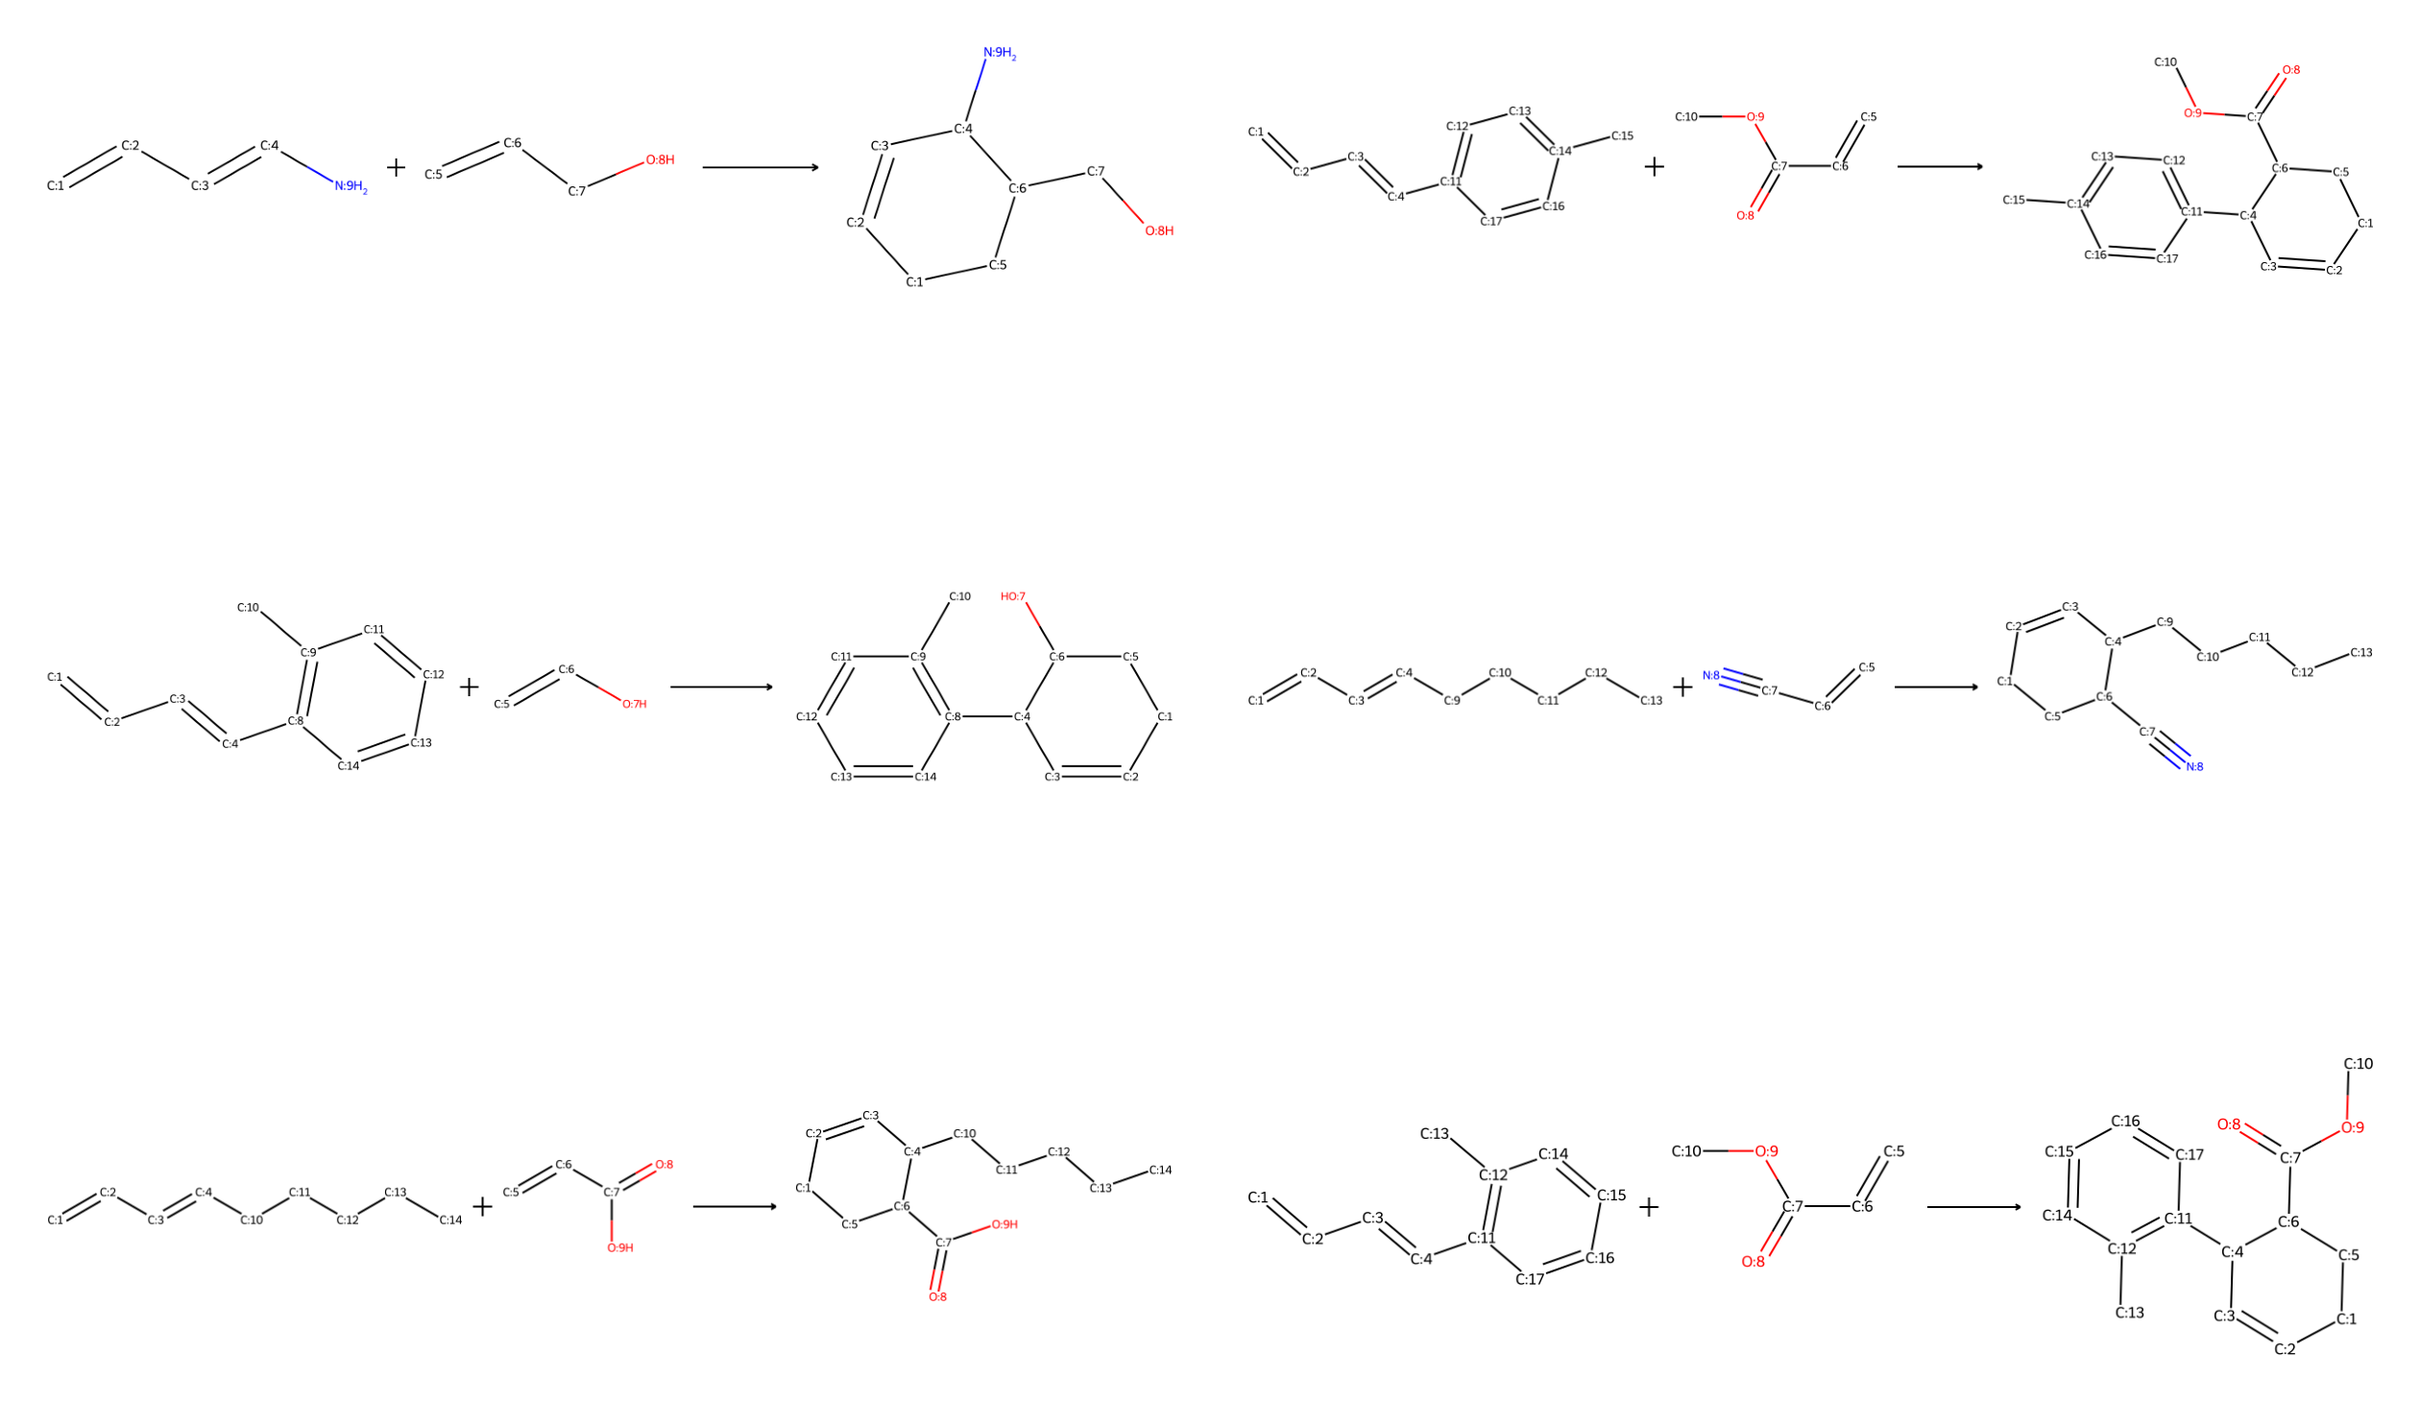
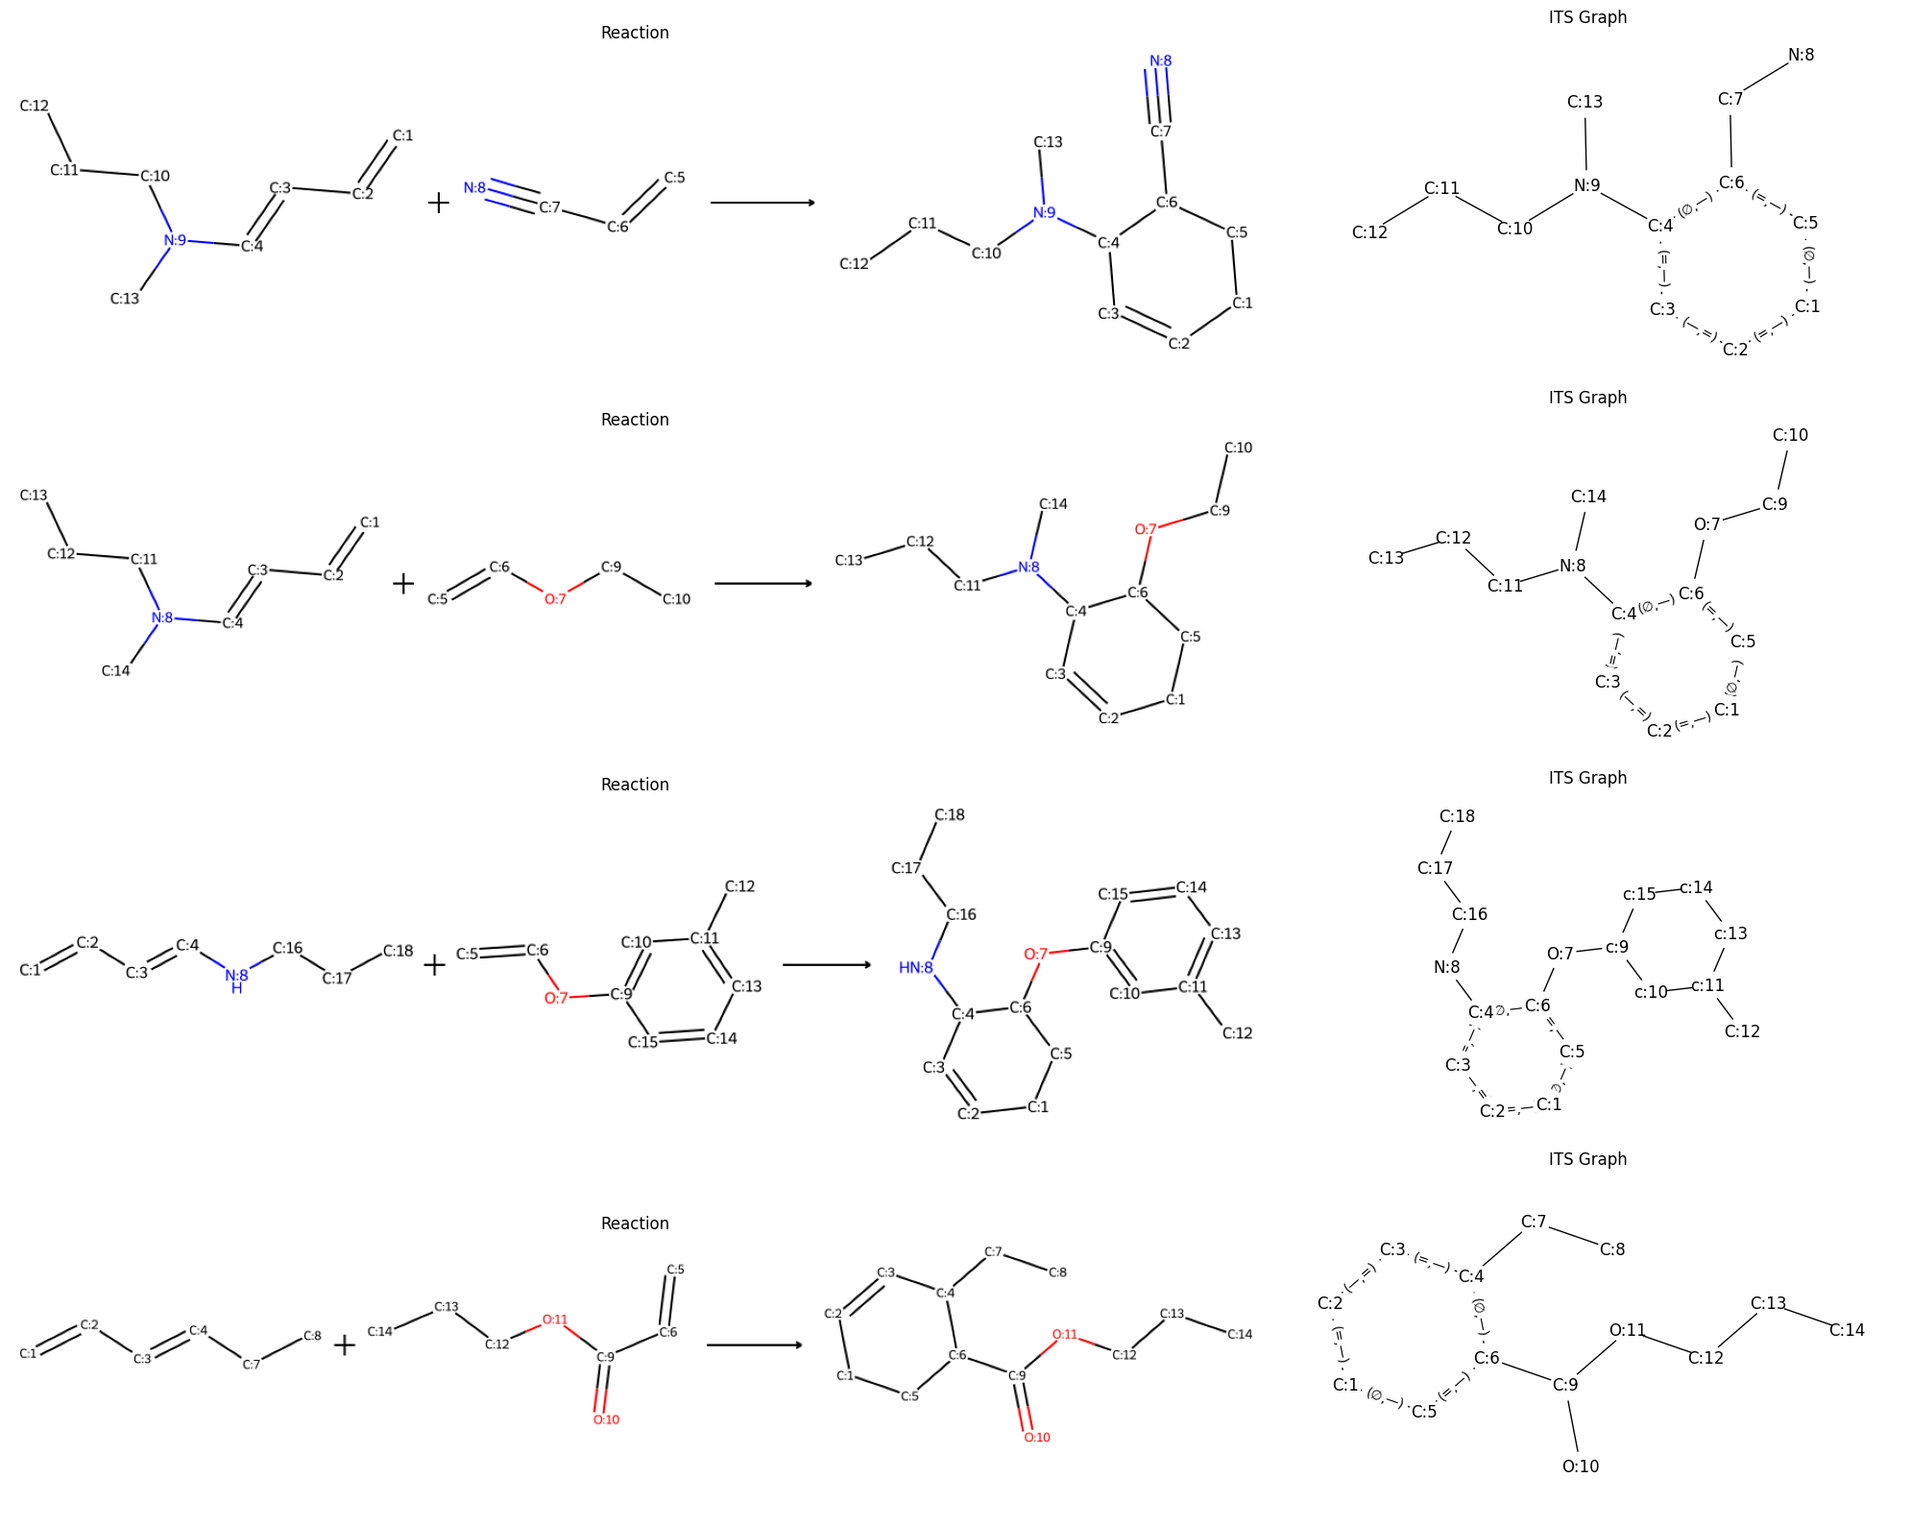
update documentation

diff --git a/fgutils/proxy.py b/fgutils/proxy.py
@@ -27,7 +27,9 @@ class GraphSampler:
         self.unique = unique
         self.__hist = []
 
-    def sample(self, graphs: list[ProxyGraph]) -> list[ProxyGraph] | None:
+    def sample(
+        self, graphs: list[ProxyGraph], group_name=None
+    ) -> list[ProxyGraph] | None:
         """
         Method to retrive a new sample from a list of graphs. If unique is set
         to true the first graph that was not yet returned is selected. None is
@@ -35,6 +37,8 @@ class GraphSampler:
         graphs are returned each time the function is called.
 
         :param graphs: A list of graphs to sample from.
+        :param group_name: (optional) The group name is an optional argument.
+            It's not necessary to specify it if it's not needed.
 
         :returns: Returns one or more graphs from the list or None if sampling
             should stop.
@@ -100,7 +104,7 @@ class ProxyGroup:
     :param sampler: (optional) An object or a function to retrive individual
         graphs from the list. The expected function interface is:
         ``func(list[ProxyGraph]) -> list[ProxyGraph]``. Implement the
-        ``__call__`` method if you use a class. The function can take an
+        ``__call__`` method if you use a class. The function can have an
         optional keyword argument **group_name**.
     :param unique: Argument to specify if graphs can be returned multiple
         times. This only takes effect if sampler is not set. (Default = False)
@@ -380,7 +384,9 @@ class Proxy:
     ):
         self.enable_aam = enable_aam
         self.core = (
-            ProxyGroup("__core__", core) if not isinstance(core, ProxyGroup) else core
+            ProxyGroup("__core__", core, unique=True)
+            if not isinstance(core, ProxyGroup)
+            else core
         )
         self.groups = groups
         if parser is None:

diff --git a/doc/figure_scripts/multiple_anchor_example.py b/doc/figure_scripts/multiple_anchor_example.py
@@ -1,29 +1,24 @@
 import matplotlib.pyplot as plt
 from fgutils.proxy import MolProxy, ProxyGroup, ProxyGraph, Parser
-from fgutils.vis import plot_graph
+from fgutils.vis import GraphVisualizer
 
-pattern = "C{g}(C)C{g}(C)(C)C"
-g_2 = ProxyGroup("g", ProxyGraph("c1ccccc1", anchor=[1, 3]))
-g_3 = ProxyGroup("g", ProxyGraph("c1ccccc1", anchor=[1, 3, 4]))
-g_4 = ProxyGroup("g", ProxyGraph("c1ccccc1", anchor=[1, 3, 4, 5]))
+pattern = "N{g}C{g}(O)C"
+g_1 = ProxyGroup("g", ProxyGraph("C1CCCCC1", anchor=[1, 3]))
+g_2 = ProxyGroup("g", ProxyGraph("C1CCCCC1", anchor=[1, 3, 4]))
 
 parser = Parser()
-proxy1 = MolProxy(pattern, g_2)
-proxy2 = MolProxy(pattern, g_3)
-proxy3 = MolProxy(pattern, g_4)
+proxy1 = MolProxy(pattern, g_1)
+proxy2 = MolProxy(pattern, g_2)
 
 parent_graph = parser(pattern)
 mol1 = next(proxy1)
 mol2 = next(proxy2)
-mol3 = next(proxy3)
 
-fig, ax = plt.subplots(2, 2, dpi=200, figsize=(16, 9))
-plot_graph(
-    parent_graph, ax[0, 0], show_labels=True, show_edge_labels=False, title="parent"
-)
-plot_graph(mol1, ax[0, 1], show_edge_labels=False, title="2 anchor nodes")
-plot_graph(mol2, ax[1, 0], show_edge_labels=False, title="3 anchor nodes")
-plot_graph(mol3, ax[1, 1], show_edge_labels=False, title="4 anchor nodes")
+vis = GraphVisualizer(show_edge_labels=False)
+fig, ax = plt.subplots(1, 3, dpi=200, figsize=(20, 3))
+vis.plot(parent_graph, ax[0], title="parent")
+vis.plot(mol1, ax[1], title="2 anchor nodes")
+vis.plot(mol2, ax[2], title="3 anchor nodes")
 plt.savefig(
     "doc/figures/multiple_anchor_example.png", bbox_inches="tight", transparent=True
 )

diff --git a/doc/figure_scripts/diels_alder_example.py b/doc/figure_scripts/diels_alder_example.py
@@ -1,15 +1,18 @@
+import random
 import matplotlib.pyplot as plt
 from fgutils.proxy import ProxyGroup, ProxyGraph, ReactionProxy
 from fgutils.proxy_collection.common import common_groups
-from fgutils.vis import plot_reaction
+from fgutils.vis import plot_reaction, plot_its
+from fgutils.chem.its import get_its
 
 
 electron_donating_group = ProxyGroup(
-    "electron_donating_group", pattern="{alkyl,aryl,amine}"
+    "electron_donating_group",
+    ["{methyl}", "{ethyl}", "{propyl}", "{aryl}", "{amine}"],
 )
 electron_withdrawing_group = ProxyGroup(
     "electron_withdrawing_group",
-    pattern="{alkohol,ether,aldehyde,ester,nitrile}",
+    ["{alkohol}", "{ether}", "{aldehyde}", "{ester}", "{nitrile}"],
 )
 diene_group = ProxyGroup(
     "diene",
@@ -28,14 +31,13 @@ groups = common_groups + [
 
 proxy = ReactionProxy("{diene}1<0,1>{dienophile}<0,1>1", groups)
 
-r, c = 3, 2
-fig, ax = plt.subplots(r, c, dpi=400)
-for ri in range(r):
-    for ci in range(c):
-        g, h = next(proxy)
-        ax[ri, ci].axis("off")
-        plot_reaction(g, h, ax[ri, ci])
-
+n = 4
+fig, ax = plt.subplots(n, 2, width_ratios=[2, 1], figsize=(20, n * 4))
+for i, (g, h) in enumerate(random.sample(list(proxy), n)):
+    plot_reaction(g, h, ax[i, 0], title="Reaction")
+    plot_its(get_its(g, h), ax[i, 1], title="ITS Graph")
 plt.tight_layout()
-plt.savefig("doc/figures/diels_alder_example.png", bbox_inches="tight", transparent=True)
+plt.savefig(
+    "doc/figures/diels_alder_example.png", bbox_inches="tight", transparent=False
+)
 plt.show()

diff --git a/fgutils/vis.py b/fgutils/vis.py
@@ -37,7 +37,7 @@ def _get_graph_as_mol(g: nx.Graph) -> Chem.rdchem.Mol:
     return graph_to_mol(_g)
 
 
-def plot_its(its, ax, use_mol_coords=True):
+def plot_its(its, ax, use_mol_coords=True, title=None):
     bond_char = {None: "∅", 0: "∅", 1: "—", 2: "=", 3: "≡"}
 
     if use_mol_coords:
@@ -53,6 +53,8 @@ def plot_its(its, ax, use_mol_coords=True):
 
     ax.axis("equal")
     ax.axis("off")
+    if title is not None:
+        ax.set_title(title)
 
     nx.draw_networkx_edges(its, positions, edge_color="#000000", ax=ax)
     nx.draw_networkx_nodes(its, positions, node_color="#FFFFFF", node_size=500, ax=ax)
@@ -133,8 +135,10 @@ def get_rxn_img(smiles):
     return img.crop(rect)
 
 
-def plot_reaction(g: nx.Graph, h: nx.Graph, ax):
+def plot_reaction(g: nx.Graph, h: nx.Graph, ax, title=None):
     ax.axis("off")
+    if title is not None:
+        ax.set_title(title)
     rxn_smiles = "{}>>{}".format(graph_to_smiles(g), graph_to_smiles(h))
     ax.imshow(get_rxn_img(rxn_smiles))
 

diff --git a/doc/figure_scripts/labeled_node_example.py b/doc/figure_scripts/labeled_node_example.py
@@ -1,19 +1,20 @@
 import matplotlib.pyplot as plt
 from fgutils import Parser
 from fgutils.proxy import MolProxy, ProxyGroup
-from fgutils.vis import plot_graph
+from fgutils.vis import GraphVisualizer
 
 pattern = "CC(=O)O{propyl}"
-propyl_group = ProxyGroup("propyl", pattern="CCC")
+propyl_group = ProxyGroup("propyl", "CCC")
 parser = Parser()
 proxy = MolProxy(pattern, propyl_group, parser=parser)
 
 g = parser(pattern)
 mol = next(proxy)
 
-fig, ax = plt.subplots(1, 2, dpi=100, figsize=(12, 4))
-plot_graph(g, ax[0], show_labels=True)
-plot_graph(mol, ax[1])
+vis = GraphVisualizer()
+fig, ax = plt.subplots(1, 2, dpi=100, figsize=(12, 3))
+vis.plot(g, ax[0], title="Core Pattern")
+vis.plot(mol, ax[1], title="Generated Molecule")
 plt.savefig(
     "doc/figures/labeled_node_example.png", bbox_inches="tight", transparent=True
 )

diff --git a/doc/graph_syntax.rst b/doc/graph_syntax.rst
@@ -35,19 +35,20 @@ by replacing the labeled node with the propyl group::
     import matplotlib.pyplot as plt
     from fgutils import Parser
     from fgutils.proxy import MolProxy, ProxyGroup
-    from fgutils.vis import plot_graph
+    from fgutils.vis import GraphVisualizer
 
     pattern = "CC(=O)O{propyl}"
-    propyl_group = ProxyGroup("propyl", pattern="CCC")
+    propyl_group = ProxyGroup("propyl", "CCC")
     parser = Parser()
     proxy = MolProxy(pattern, propyl_group, parser=parser)
 
     g = parser(pattern)
     mol = next(proxy)
 
-    fig, ax = plt.subplots(1, 2, dpi=100, figsize=(12, 4))
-    plot_graph(g, ax[0], show_labels=True)
-    plot_graph(mol, ax[1])
+    vis = GraphVisualizer()
+    fig, ax = plt.subplots(1, 2, dpi=100, figsize=(12, 3))
+    vis.plot(g, ax[0], title="Core Pattern")
+    vis.plot(mol, ax[1], title="Generated Molecule")
     plt.show()
 
 .. image:: figures/labeled_node_example.png
@@ -61,42 +62,39 @@ by replacing the labeled node with the propyl group::
 
 In the example above the ProxyGroup has only one subgraph pattern. In general,
 a ProxyGroup is a collection of several possible subgraphs from which one is
-selected when a new sample is instantiated (currently only random selection is
-implemented). By default a pattern has one anchor at index 0. If you need more
-control over how a subgraph is inserted into a parent graph you can instantiate
-the :py:class:`~fgutils.proxy.ProxyGraph` class. For a ProxyGraph you can
-provide a list of anchor node indices. The insertion of the subgraph into the
-parent depends on the number of anchor nodes in the subgraph and the number of
-edges to the labeled node in the parent. The first edge in the parent connects
-to the first anchor node in the subgraph and so forth. The following example
+selected when a new sample is instantiated. To get more information on how
+graphs are sample take a look at the :py:class:`~fgutils.proxy.GraphSampler`
+class and the :py:class:`~fgutils.proxy.ProxyGroup` constructor. By default a
+pattern has one anchor at index 0. If you need more control over how a subgraph
+is inserted into a parent graph you can instantiate the
+:py:class:`~fgutils.proxy.ProxyGraph` class. For a ProxyGraph you can provide a
+list of anchor node indices. The insertion of the subgraph into the parent
+depends on the number of anchor nodes in the subgraph and the number of edges
+to the labeled node in the parent. The first edge in the parent connects to the
+first anchor node in the subgraph and so forth. The following example
 demonstrates the insertion with multiple anchor nodes::
 
     import matplotlib.pyplot as plt
     from fgutils.proxy import MolProxy, ProxyGroup, ProxyGraph, Parser
-    from fgutils.vis import plot_graph
+    from fgutils.vis import GraphVisualizer
 
-    pattern = "C{g}(C)C{g}(C)(C)C"
-    g_2 = ProxyGroup("g", ProxyGraph("c1ccccc1", anchor=[1, 3]))
-    g_3 = ProxyGroup("g", ProxyGraph("c1ccccc1", anchor=[1, 3, 4]))
-    g_4 = ProxyGroup("g", ProxyGraph("c1ccccc1", anchor=[1, 3, 4, 5]))
+    pattern = "N{g}C{g}(O)C"
+    g_1 = ProxyGroup("g", ProxyGraph("C1CCCCC1", anchor=[1, 3]))
+    g_2 = ProxyGroup("g", ProxyGraph("C1CCCCC1", anchor=[1, 3, 4]))
 
     parser = Parser()
-    proxy1 = MolProxy(pattern, g_2)
-    proxy2 = MolProxy(pattern, g_3)
-    proxy3 = MolProxy(pattern, g_4)
+    proxy1 = MolProxy(pattern, g_1)
+    proxy2 = MolProxy(pattern, g_2)
 
     parent_graph = parser(pattern)
     mol1 = next(proxy1)
     mol2 = next(proxy2)
-    mol3 = next(proxy3)
 
-    fig, ax = plt.subplots(2, 2, dpi=200, figsize=(16, 9))
-    plot_graph(
-        parent_graph, ax[0, 0], show_labels=True, show_edge_labels=False, title="parent"
-    )
-    plot_graph(mol1, ax[0, 1], show_edge_labels=False, title="2 anchor nodes")
-    plot_graph(mol2, ax[1, 0], show_edge_labels=False, title="3 anchor nodes")
-    plot_graph(mol3, ax[1, 1], show_edge_labels=False, title="4 anchor nodes")
+    vis = GraphVisualizer(show_edge_labels=False)
+    fig, ax = plt.subplots(1, 3, dpi=200, figsize=(20, 3))
+    vis.plot(parent_graph, ax[0], title="parent")
+    vis.plot(mol1, ax[1], title="2 anchor nodes")
+    vis.plot(mol2, ax[2], title="3 anchor nodes")
     plt.show()
 
 .. image:: figures/multiple_anchor_example.png
@@ -107,23 +105,26 @@ feature is required to model reaction mechanisms as ITS graph. Changing bonds
 are surrounded by ``<>`` (e.g. ``<1, 2>`` for the formation of a double bond
 from a single bond). The extended notation allows the automated generation of
 reaction examples with complete atom-to-atom maps. The following code snippet
-demonstrates the generation of a few Diels-Alder reactions. The ``diene`` and
-``dienophile`` groups can of course be extended to increase varaity of the
+demonstrates the generation of a few Diels-Alder reactions. The **diene** and
+**dienophile** groups can of course be extended to increase varaity of the
 samples::
 
 
+    import random
     import matplotlib.pyplot as plt
     from fgutils.proxy import ProxyGroup, ProxyGraph, ReactionProxy
     from fgutils.proxy_collection.common import common_groups
-    from fgutils.vis import plot_reaction
+    from fgutils.vis import plot_reaction, plot_its
+    from fgutils.chem.its import get_its
 
 
     electron_donating_group = ProxyGroup(
-        "electron_donating_group", pattern="{alkyl,aryl,amine}"
+        "electron_donating_group",
+        ["{methyl}", "{ethyl}", "{propyl}", "{aryl}", "{amine}"],
     )
     electron_withdrawing_group = ProxyGroup(
         "electron_withdrawing_group",
-        pattern="{alkohol,ether,aldehyde,ester,nitrile}",
+        ["{alkohol}", "{ether}", "{aldehyde}", "{ester}", "{nitrile}"],
     )
     diene_group = ProxyGroup(
         "diene",
@@ -142,25 +143,42 @@ samples::
 
     proxy = ReactionProxy("{diene}1<0,1>{dienophile}<0,1>1", groups)
 
-    r, c = 3, 2
-    fig, ax = plt.subplots(r, c, dpi=400)
-    for ri in range(r):
-        for ci in range(c):
-            g, h = next(proxy)
-            ax[ri, ci].axis("off")
-            plot_reaction(g, h, ax[ri, ci])
+    n = 4
+    fig, ax = plt.subplots(n, 2, width_ratios=[2, 1], figsize=(20, n * 4))
+    for i, (g, h) in enumerate(random.sample(list(proxy), n)):
+        plot_reaction(g, h, ax[i, 0], title="Reaction")
+        plot_its(get_its(g, h), ax[i, 1], title="ITS Graph")
     plt.tight_layout()
     plt.show()
 
 .. image:: figures/diels_alder_example.png
    :width: 1000
 
+This proxy can now generate Diels-Alder reaction samples. A few of the results
+are shown in the figure above. On the left side the reaction and on the right
+side the resulting ITS. The results are balanced and have complete atom-to-atom
+maps. The atom-to-atom maps are correct as long as the configuration makes
+sence in the chemical domain. Note that the synthesizability of the generated
+samples can not be guaranteed. It soley depends on what ProxyGroups and
+ProxyGraphs are configured. For a comprehensive Diels-Alder reaction proxy take
+a look at the
+:py:class:`~fgutils.proxy_collection.diels_alder_proxy.DielsAlderProxy` class
+and the section TODO. This class is also able to generate negative Diels-Alder
+reaction samples, i.e., reactions where a Diels-Alder graph transformation rule
+is theoretically applicable but the reaction will never happen in reality.
+
 .. note::
 
    The ``electron_donating_group`` and ``electron_withdrawing_group`` serve as
    a collection of other groups to simplify the notation. They consist of a
    single node with multiple labels. When iterating the next sample from the
-   proxy (``next(proxy)``) the labeled nodes get replaced by the pattern from
-   one of the groups. The group/label is chosen randomly with uniform
-   distribution.
+   proxy the labeled nodes get replaced by the pattern from one of the groups.
+   The group/label is chosen randomly with uniform distribution.
 
+
+.. warning::
+
+   The call ``list(proxy)`` will generate all possible instantiations at once.
+   Depending on the configuration this can take a long time to complete. If the
+   core ProxyGroup graph sampling is not unique this can even result in an
+   endless loop. 
